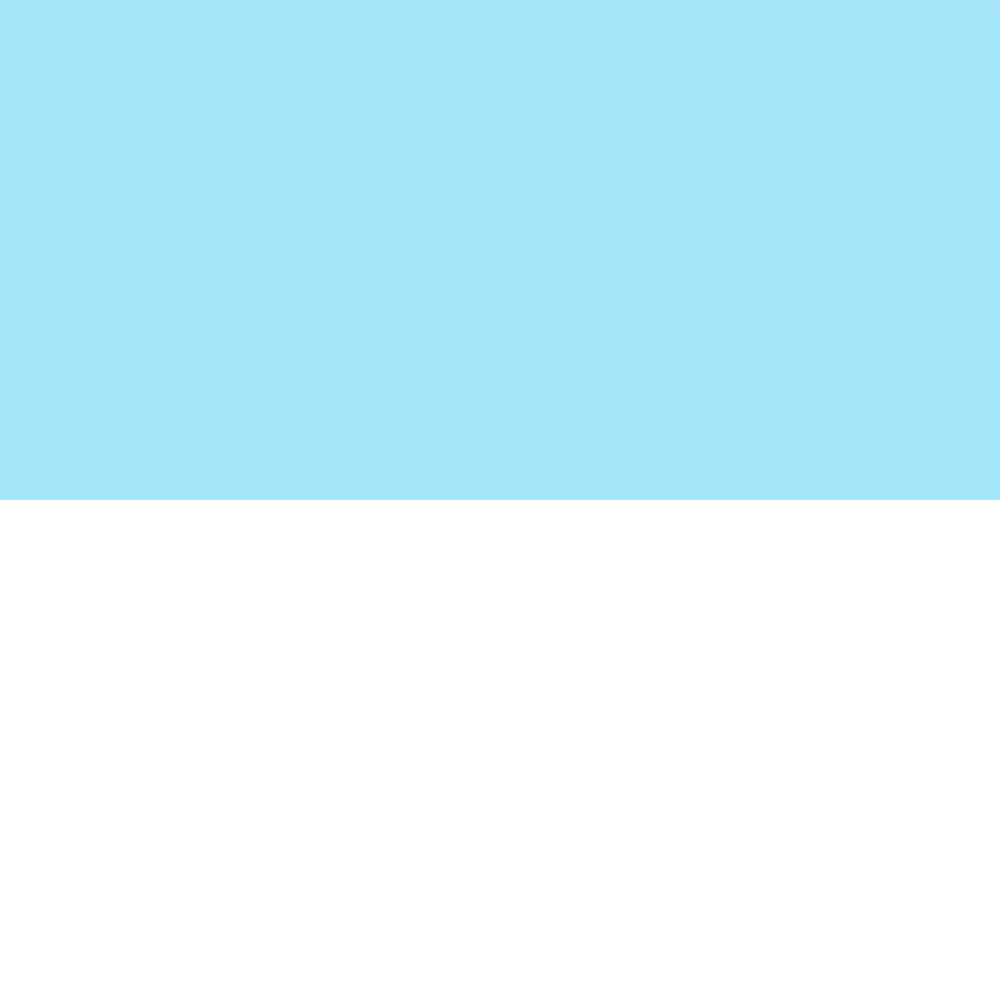
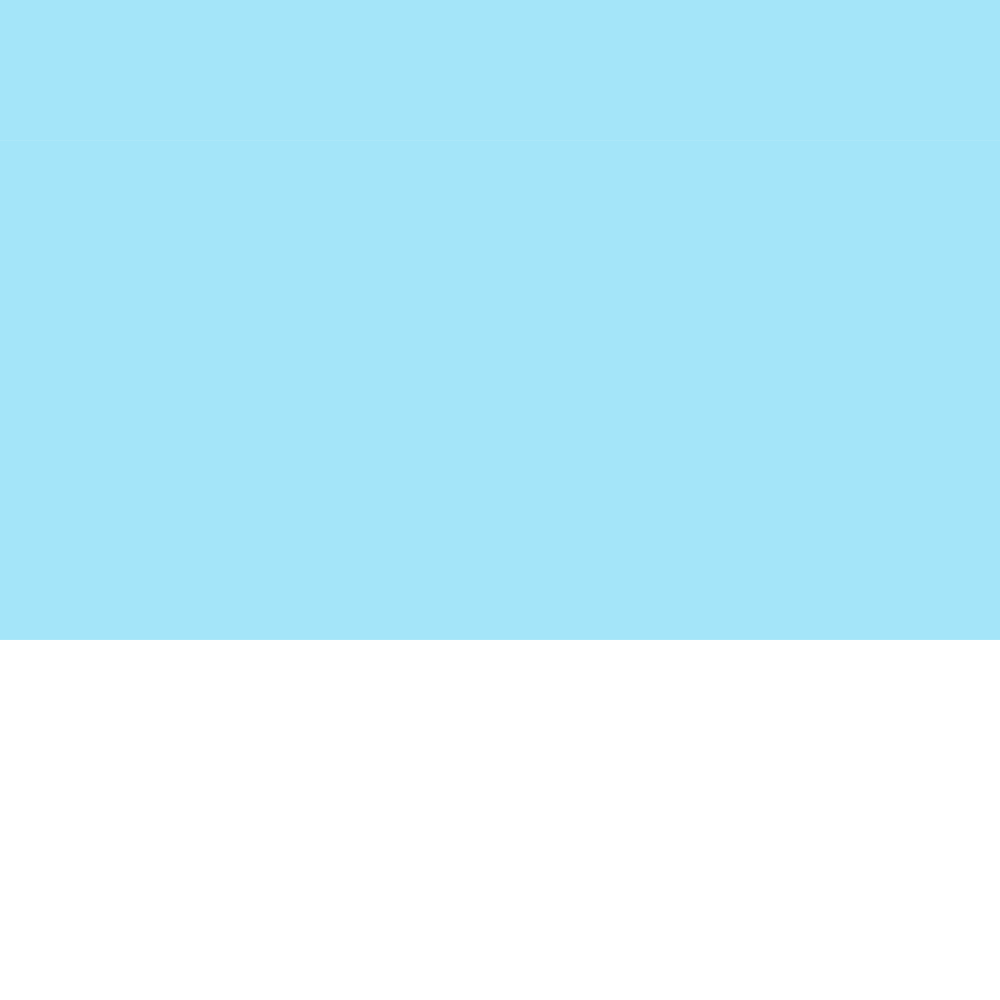
Syncit
…

Changed region(s): [[0.0, 0.496, 1.0, 0.651]]

diff --git a/app/elements/lo-objectscollection/lo-objectscollection.html b/app/elements/lo-objectscollection/lo-objectscollection.html
@@ -24,13 +24,14 @@ See authors.md for a list of all members.
 
     .objectscollection {
       @apply(--layout-horizontal);
-      @apply(--layout-wrap);
+      @apply(--layout-center);
       overflow-x: scroll;
+      height: 80vh;
     }
 
     #toolbar {
       height: 10vh;
-      min-height: 100px;
+      min-height: 120px;
       width: 100vw;
       padding: 0px;
       background-color: transparent;
